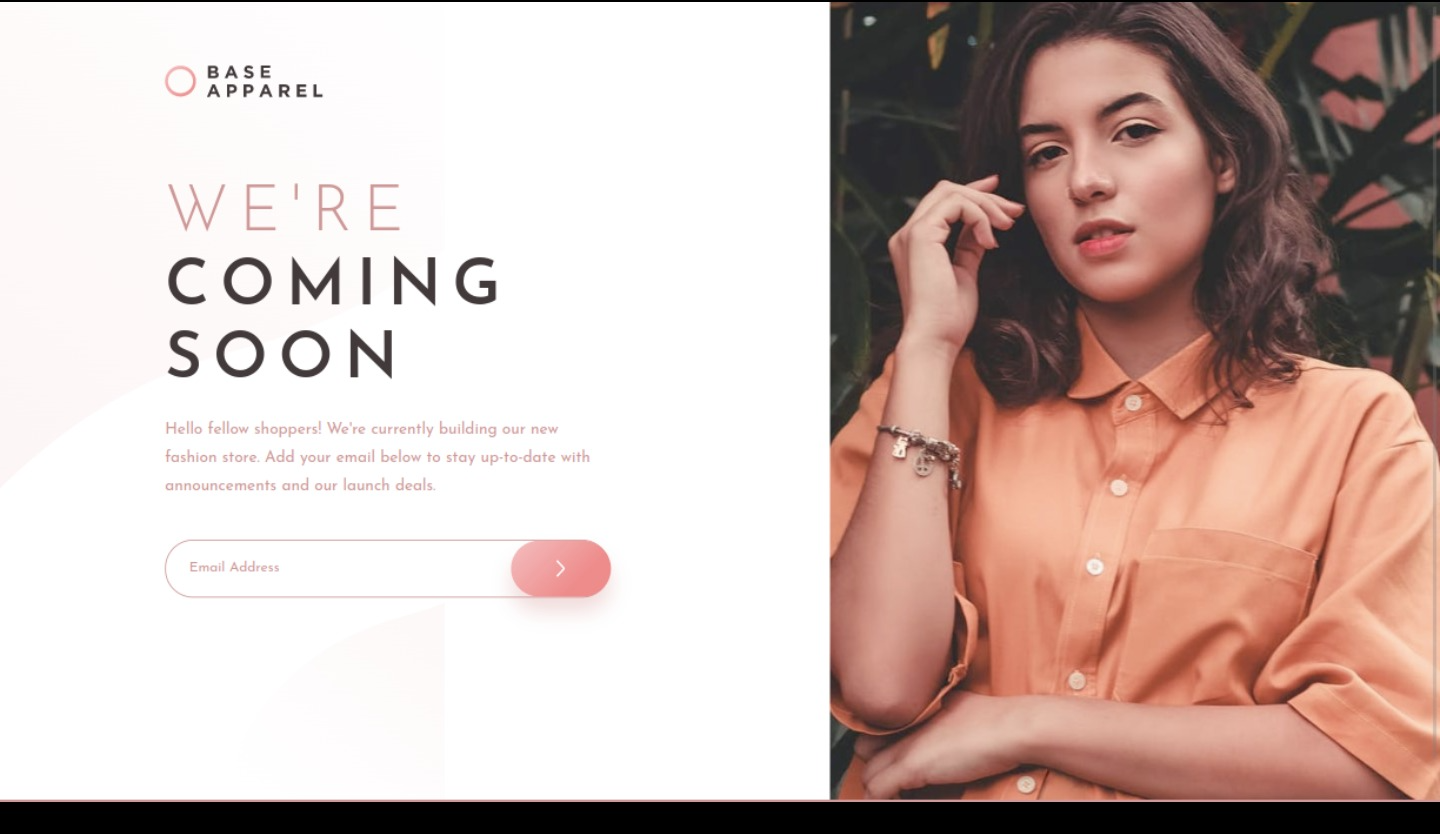
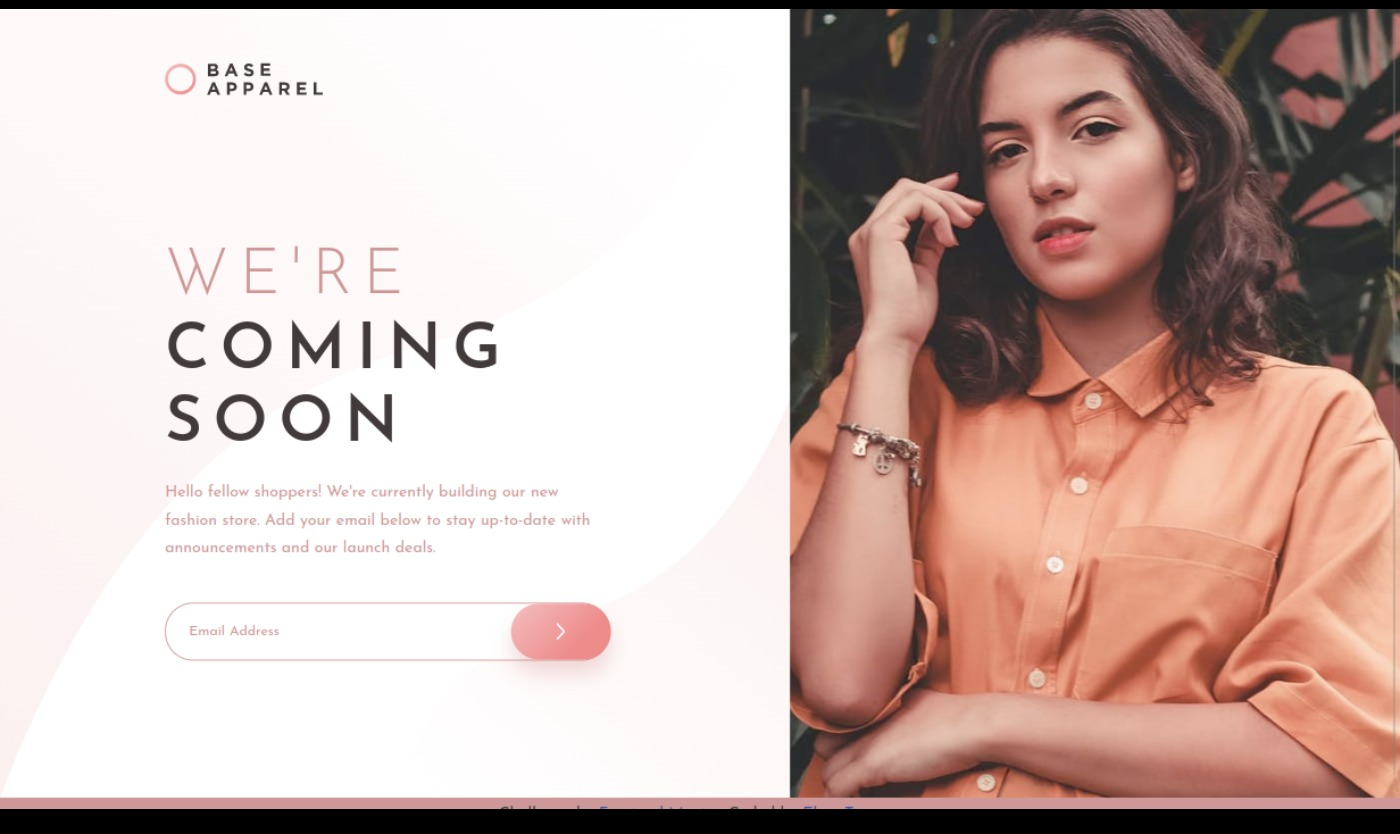
updated desktop image

diff --git a/src/styles/components/_hero.scss b/src/styles/components/_hero.scss
@@ -92,7 +92,7 @@
     height: 100vh;
     background: url('../assets/bg-pattern-desktop.svg');
     background-position: left;
-    background-size: rem(1290) rem(800);
+    background-size: rem(1300) rem(800);
     background-repeat: no-repeat;
   }
 }
